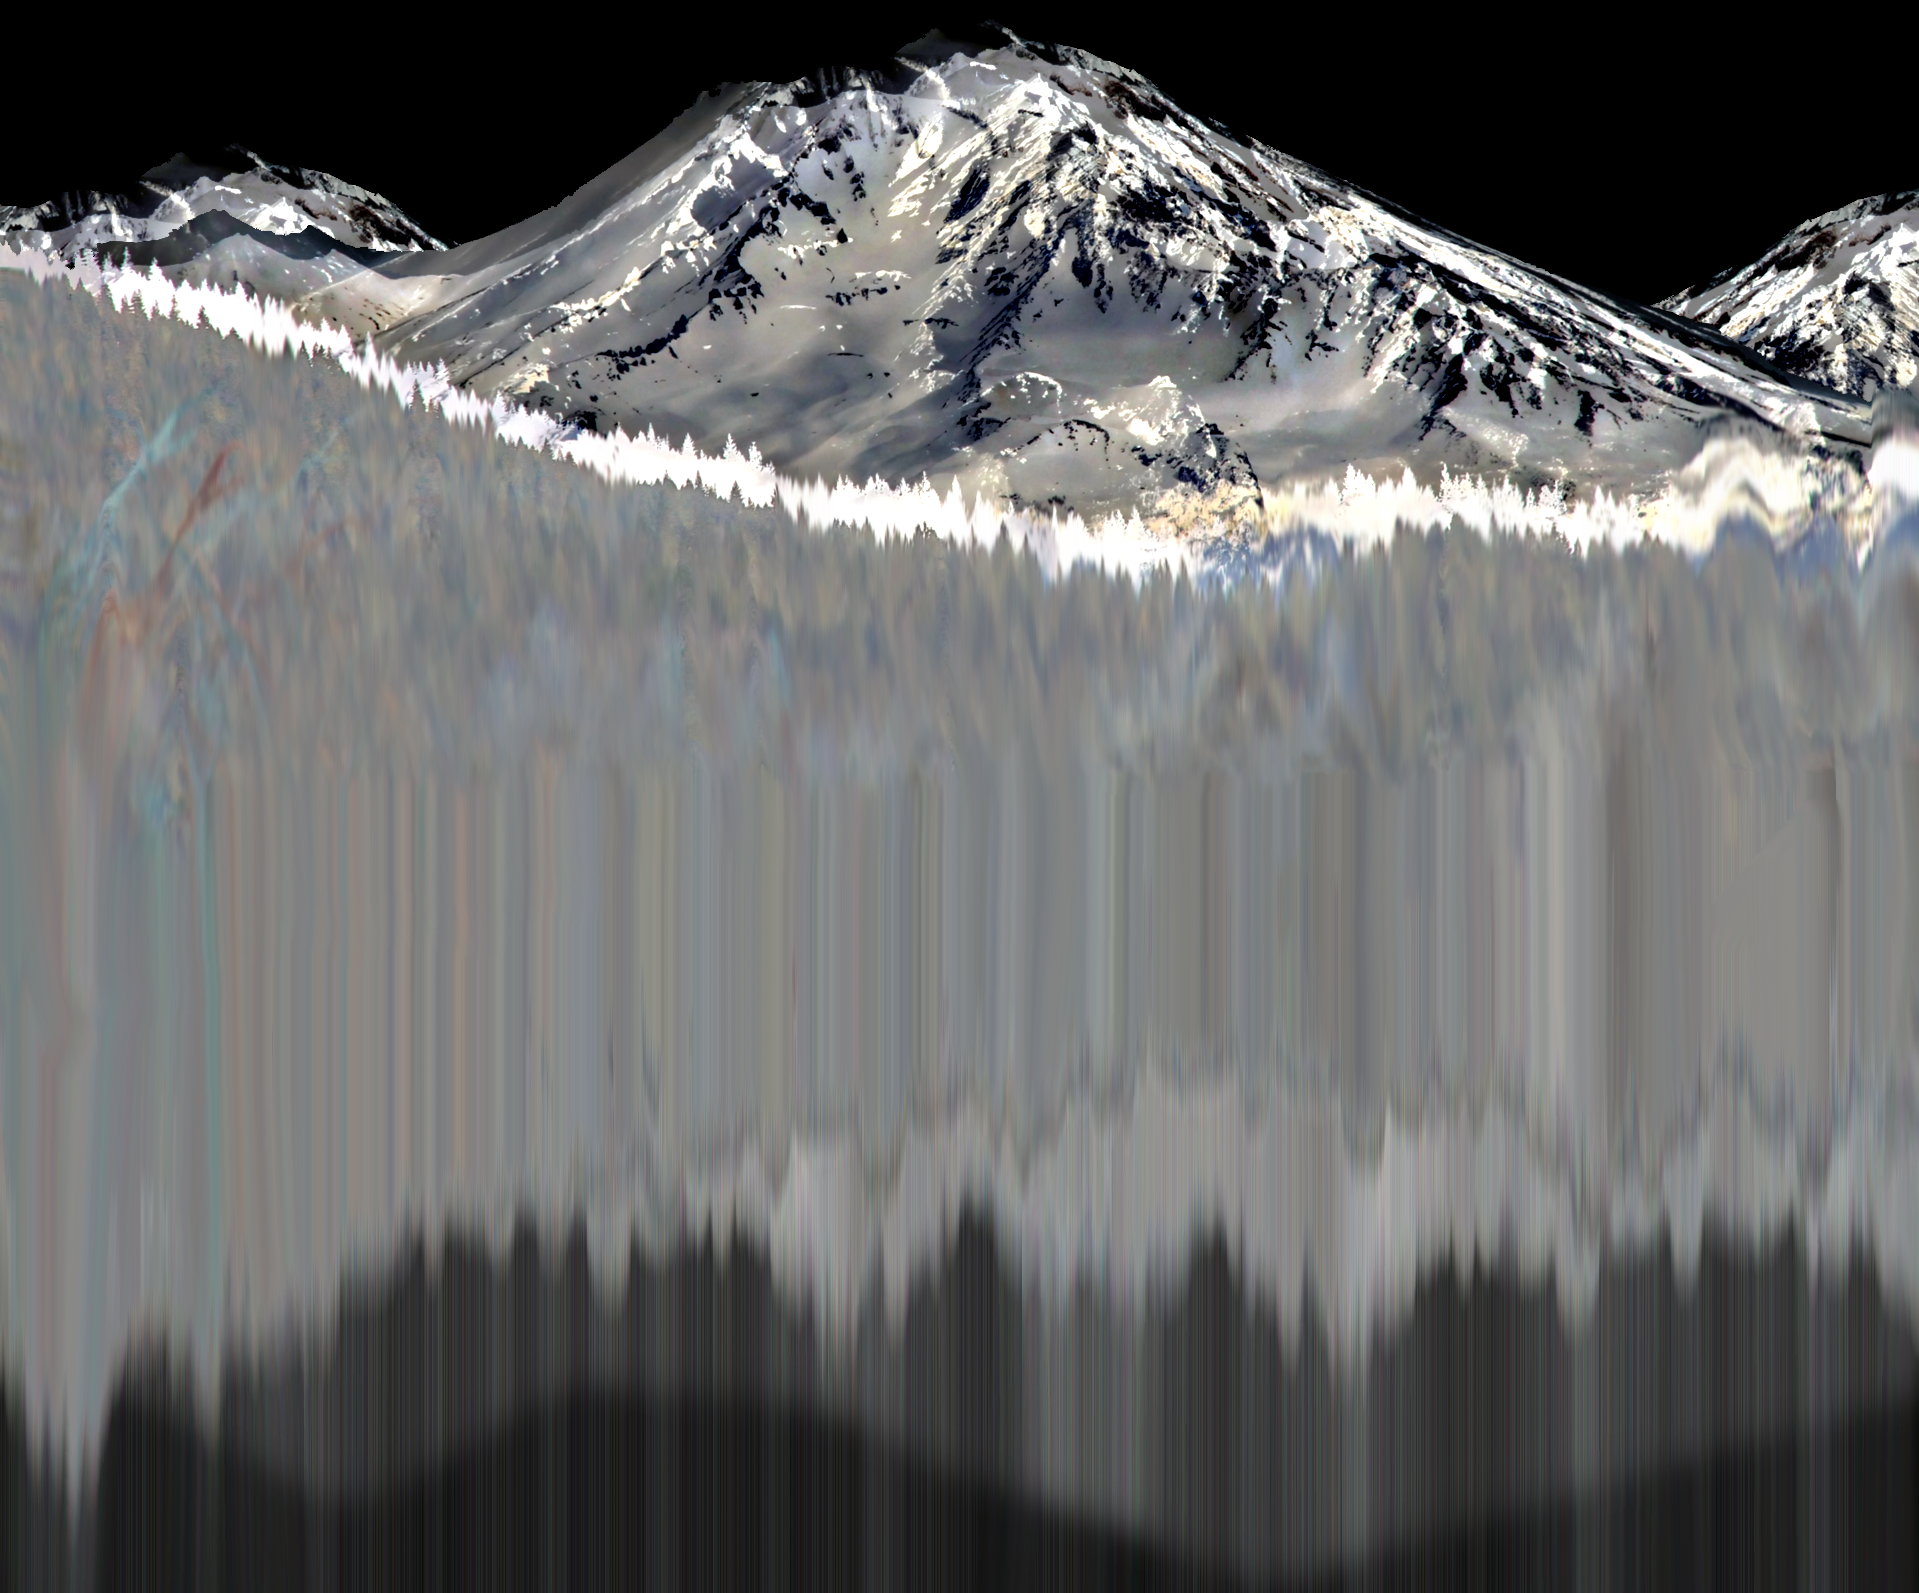
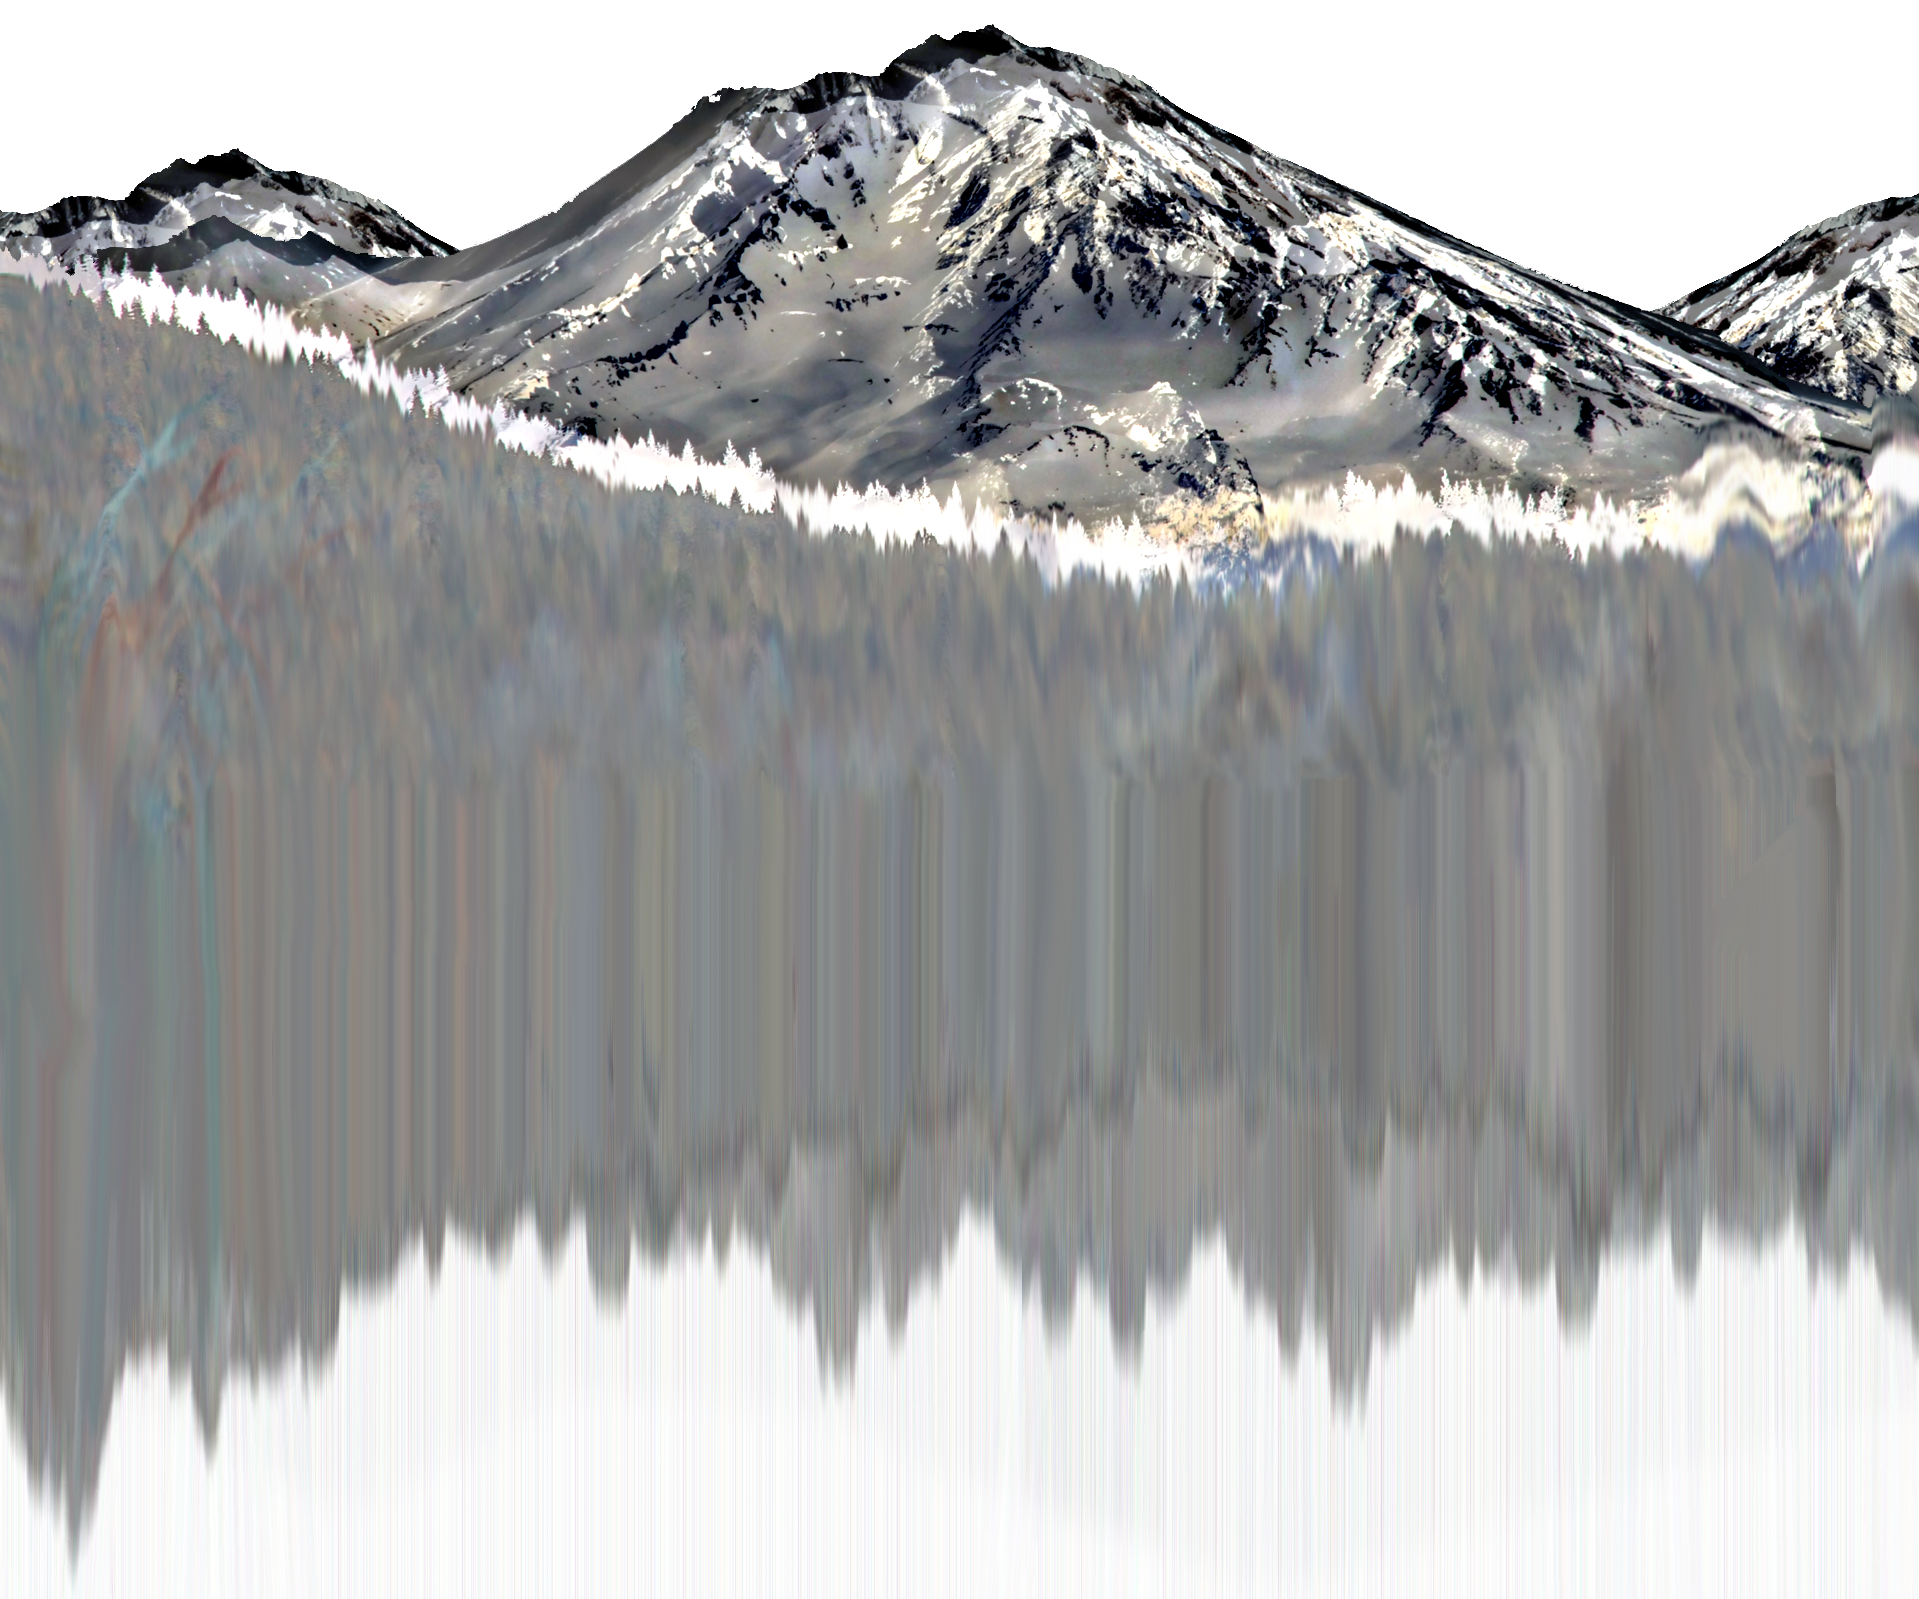
final commit (?)

diff --git a/index.html b/index.html
@@ -1,30 +1,70 @@
 <!DOCTYPE html>
 <html>
 	<head>
+		<!-- https://www.nasa.gov/image-feature/carina-nebulas-mystic-mountain -->
 		<meta charset = "utf-8">
 		<title>NEEEET</title>
 		<link rel="stylesheet" type="text/css" href="style.css">
 	</head>
 
 	<body style = "background: url(img/pureblack.png)">	
-		<div class = "grow spin">
-			<img id = "moon" src = "img/moon.png">
+		<div class = "grow">
+			<img id = "moon" src = "img/moon.png" role="button" onclick ="window.open('moon.html', '_blank');" >
+
 		</div>
 
-		<div class = "grow spin">
-			<img id = "starfield" src = "img/starfield.png" >
+		<div class = "spin">
+			<img id = "starfield" src = "img/starfield.png" role="button" onclick ="window.open('https://www.nasa.gov/image-feature/carina-nebulas-mystic-mountain', '_blank')">
 		</div>
 
 		<div class = "scaleY">
 			<div class = "centerContainer">
-				<img id = "mountain" src = "img/mountain.png">
+				<img id = "mountain" src = "img/mountain.png" role="button" onclick ="setTimeout(function() {window.open('mountain.html', '_blank')},1000);">
 			</div>
 		</div>
 
+		<img class = "arrow" id = "down" src = "img/arrows.png">
+		<button class = "popp" onclick="Generate()">Generate Cuteness</button>
+		<img class = "arrow" id = "up" src = "img/arrowsOPP.png">
+
 		<div class = "centerContainer">
-			<img id = "sadcrown" src = "img/patten.png">
-		</div>	
+			<img class = "popp" id = "sadcrown" src = "img/patten.png" role="button" onclick ="window.open('https://github.com/jiataoxu/jiataoxu.github.io', '_blank');">
+		</div>
+
+
+
+		<p>The Moon, The mountain, the stars, and some extras</p>
+		<p>by Jiatao Xu</p>	
+		<br>
+		<h5 style="color:white;">click around; move around; do your thing</h5>
 	
+	<script type="text/javascript">
+		function Generate() {
+			var random = Math.floor(Math.random()*5);
+			var pic0 = "img/cats/cat0.jpg";
+			var pic1 = "img/cats/cat1.jpg";
+			var pic2 = "img/cats/cat2.jpg";
+			var pic3 = "img/cats/cat3.jpg";
+			var pic4 = "img/cats/cat4.jpg";
+
+			if (random == 0) {
+				window.open(pic0, '_blank');
+			}
+			else if (random == 1) {
+				window.open(pic1, '_blank');
+			}
+			else if (random == 2) {
+				window.open(pic2, '_blank');
+			}
+			else if (random == 3) {
+				window.open(pic3, '_blank');
+			}
+			else if (random == 4) {
+				window.open(pic4, '_blank');
+			}
+
+		}
+	</script>
 
 	</body>
 </html>

diff --git a/style.css b/style.css
@@ -3,12 +3,13 @@
 	position: absolute;
 	z-index:3;
 	left:50%;
-	margin-left:-250px;
-	width:500px;
-	height:500px;
+	margin-left:-100px;
+	width:200px;
+	height:200px;
 }
 
 #starfield {
+	transform:scale(0.5);
 	position: absolute;
 	z-index:1;
 	left:50%;
@@ -19,9 +20,8 @@
 	margin-left: 50%;
 }
 #mountain {
-	width: 20%
-	height:20%;
-	margin-top: 1000px;
+	transform:scale(0.5);
+	margin-top: 400px;
 	margin-left: -950px;
 }
 
@@ -32,7 +32,7 @@
 .grow { 
 	transition: transform .2s;
  }
-.grow:active { 
+.grow:hover { 
 	transform: scale(1.2);
  }
 
@@ -40,7 +40,7 @@
 	transition: transform 1s;
 }
 
-.spin:active {
+.spin:hover {
 	transform:rotate(360deg);
 }
 
@@ -49,21 +49,99 @@
 }
 
 .scaleY:hover {
-	transform:scaleY(1.5);
+	transform:scaleY(2);
 }
 
 #sadcrown {
-	margin-top:1000px;
+	margin-top:200px;
 	margin-bottom: 50px;
-	width:20%;
-	height:20%;
-	margin-left:-100px;
+	width:100px;
+	height:100px;
+	margin-left:-50px;
+}
+
+.popp { 
+	transition: transform .2s;
+ }
+.popp:hover { 
+	transform: scale(1.2);
+ }
+
+.arrow {
+	display: block;
+	width: 274px;
+	height:141px;
+	margin:auto;
+	margin-top: 15px;
+	margin-bottom: 15px;
+}
+
+#down {
+	animation-name: jump;
+	animation-duration: 0.5s;
+	animation-iteration-count: infinite;
+}
+
+#up
+{
+	animation-name: jumpOPP;
+	animation-duration: 0.5s;
+	animation-iteration-count: infinite;
+}
+@keyframes jumpOPP {
+	0%{
+		transform: translate(0px,5px);
+	}
+
+	33% {transform: translate(0px,-5px);;
+	}
+
+	66%{transform: translate(0px,-5px);
+	}
+
+	100% {
+		transform: translate(0px,5px);
+	}
+}
+@keyframes jump {
+	0%{
+		transform: translate(0px,-5px);
+	}
+
+	33% {transform: translate(0px,5px);
+	}
+
+	66%{transform: translate(0px,5px);
+	}
+
+	100% {
+		transform: translate(0px,-5px);
+	}
 }
 
 body {
-	margin:40px;
+	margin:20%;
 	padding: 100px;
 	border-color: white;
 	border-style: solid;
-	border-width: 30px;
+	border-width: 15px;
+
+}
+
+p {
+	font-family: Arial;
+	color: white;
+	text-align: center;
+}
+
+h5 {
+	font-family: Arial;
+	color: white;
+	text-align: center;
+}
+
+button {
+	display: block;
+	margin: auto;
+	font-size: 25px;
 }

diff --git a/moon.html b/moon.html
@@ -1,0 +1,30 @@
+<!DOCTYPE html>
+<html>
+	<head>
+		<meta charset = "utf-8">
+		<title>2020 2024 2028</title>
+		<style type="text/css">
+			body {
+				display: block;
+				margin: auto;
+				border: black;
+				border-width: 3px;
+				padding: 20px;
+				text-align: center;
+			}
+			img {
+				margin-top: 60px;
+				display: block;
+				margin-left:auto;
+				margin-right:auto;
+			}
+		</style>
+	</head>
+
+	<body>
+		
+		<h1>WE WERE THERE. WE WILL BE THERE ONCE MORE.</h1>
+		<img src = "img/flag.png">
+	</body>
+
+</html>

diff --git a/mountain.html b/mountain.html
@@ -1,0 +1,20 @@
+<!DOCTYPE html>
+<html>
+	<head>
+		<meta charset = "utf-8">
+		<title>M0uTaIIIn</title>
+		<style type="text/css">
+			body {
+				background-image: url("img/glitchMt.jpg");
+				background-repeat: no-repeat;
+				display: block;
+				margin: auto;
+			}
+		</style>
+	</head>
+
+	<body>
+		
+	</body>
+
+</html>
